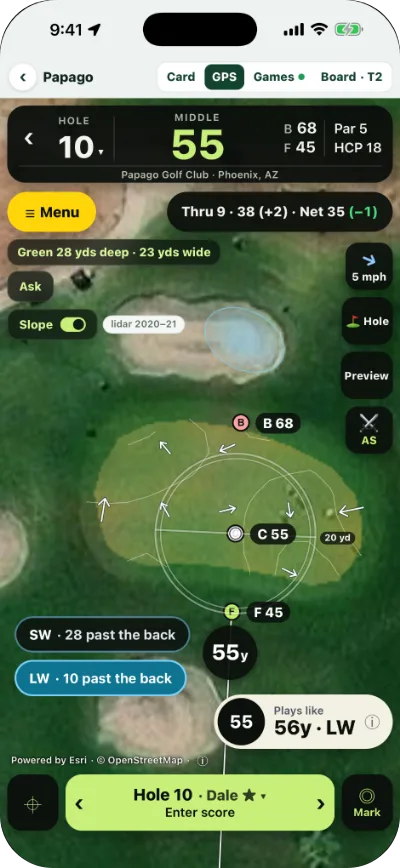
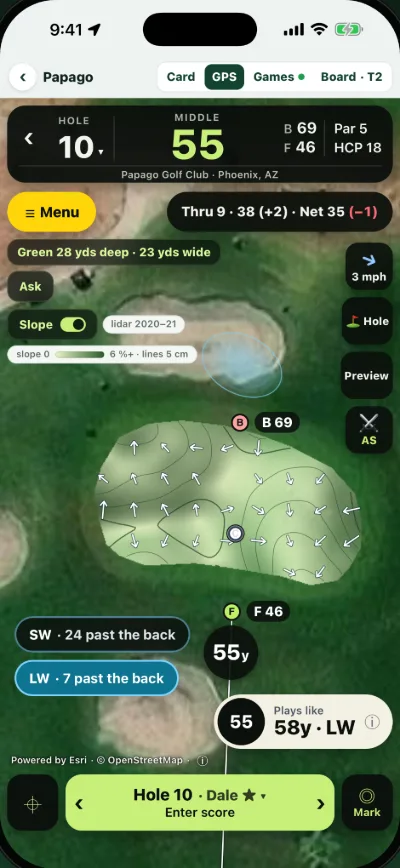
Old slope pictures replaced (Manny 2026-11-15 4:42 PM, ADVISOR-20261115-1643): green-slope, green-size and plays-like are the 2.0.8 App Store frames 07 (smooth slope, ring hidden) and 06 (aim tip), under par in red; alts and the screens manifest follow (the old entries kept under "previous")
The 2.0.7 frames drew the old blocky slope with the target ring over the arrows and Net 35 (-1) / Net 51 (-1) in green; the 2.0.7 web capture of plays-like showed Net 3 (-2) in green. The site shows under par in red only. green-size and plays-like share the 06 frame until a 2.0.8 web capture exists. Still green and not yet replaced (no 2.0.8 picture covers them): ask-caddie, group-scoring, hazards (2.0.7 web-app captures; need a 2.0.8 web capture session).
hardpan-home.html is not in sw.js's shell list: no cache bump. Guards: web_e_features 24/0, marketing_home 46/0, hardpan_home_52a 7/0, web_e_features_chrome 6/0.

diff --git a/hardpan-home.html b/hardpan-home.html
@@ -332,14 +332,14 @@
     <div class="grp" id="g-new">
         <div class="ghd"><h2>New in 2.0.7</h2><span class="gn">4 &middot; swipe &rarr;</span><span class="arrows"><button type="button" class="ga" data-dir="-1" aria-label="New in 2.0.7: earlier cards">&lsaquo;</button><button type="button" class="ga" data-dir="1" aria-label="New in 2.0.7: more cards">&rsaquo;</button></span></div>
         <p class="gln">What changed in this update.</p>
-        <ul class="row" aria-label="New in 2.0.7 features"><li class="fc" id="f-round-tabs" data-key="round-tabs"><div class="cap"><span class="eb">ROUND TABS</span><h3>Card, GPS, Games, Board.</h3><p>Four tabs on top of every round. The map opens on the whole hole.</p></div><button type="button" class="ph" data-open="round-tabs" aria-label="See Card, GPS, Games, Board full screen"><span class="s"><img src="/media/screens/round-tabs-400.webp" srcset="/media/screens/round-tabs-400.webp 400w, /media/screens/round-tabs-940.webp 940w" sizes="(max-width:700px) 200px, 206px" width="940" height="2040" loading="lazy" decoding="async" alt="The GPS map on hole 2 at Papago, opened on the whole hole with the tee and the green both on screen: 380 to the middle, and the Card, GPS, Games and Board tabs on top."></span></button></li><li class="fc" id="f-green-slope" data-key="green-slope"><div class="cap"><span class="eb">GREEN SLOPE</span><h3>Read the green.</h3><p>Shading, contours and downhill arrows on the map, with the Slope switch under Ask.</p></div><button type="button" class="ph" data-open="green-slope" aria-label="See Read the green full screen"><span class="s"><img src="/media/screens/green-slope-400.webp" srcset="/media/screens/green-slope-400.webp 400w, /media/screens/green-slope-940.webp 940w" sizes="(max-width:700px) 200px, 206px" width="940" height="2040" loading="lazy" decoding="async" alt="Papago hole 10 near the green with Slope on: shading and contours on the green, arrows that run downhill, 55 to the middle, and the Slope switch under Ask."></span></button></li><li class="fc" id="f-green-size" data-key="green-size"><div class="cap"><span class="eb">GREEN SIZE</span><h3>How big is the green?</h3><p>Deep and wide along your line of play, the same from the tee or the fairway.</p></div><button type="button" class="ph" data-open="green-size" aria-label="See How big is the green? full screen"><span class="s"><img src="/media/screens/green-size-400.webp" srcset="/media/screens/green-size-400.webp 400w, /media/screens/green-size-940.webp 940w" sizes="(max-width:700px) 200px, 206px" width="940" height="2040" loading="lazy" decoding="async" alt="Papago hole 14, 149 to the middle: the line Green 34 yds deep and 27 yds wide on the map, and Plays like 156 with an 8-iron."></span></button></li><li class="fc" id="f-team-card" data-key="team-card"><div class="cap"><span class="eb">TEAM CARD</span><h3>Your team card, in the app.</h3><p>Card, Board and GPS on one card. Scan your team’s QR right in HardPan.</p></div><button type="button" class="ph" data-open="team-card" aria-label="See Your team card, in the app full screen"><span class="s"><img src="/media/screens/team-card-400.webp" srcset="/media/screens/team-card-400.webp 400w, /media/screens/team-card-940.webp 940w" sizes="(max-width:700px) 200px, 206px" width="940" height="2040" loading="lazy" decoding="async" alt="The Desert Classic team card for Team 4 in the app: the Card, Board and GPS switch, Hole 8 · Par 5 next to play, the team score with minus and plus, and Save · Next hole."></span></button></li></ul>
+        <ul class="row" aria-label="New in 2.0.7 features"><li class="fc" id="f-round-tabs" data-key="round-tabs"><div class="cap"><span class="eb">ROUND TABS</span><h3>Card, GPS, Games, Board.</h3><p>Four tabs on top of every round. The map opens on the whole hole.</p></div><button type="button" class="ph" data-open="round-tabs" aria-label="See Card, GPS, Games, Board full screen"><span class="s"><img src="/media/screens/round-tabs-400.webp" srcset="/media/screens/round-tabs-400.webp 400w, /media/screens/round-tabs-940.webp 940w" sizes="(max-width:700px) 200px, 206px" width="940" height="2040" loading="lazy" decoding="async" alt="The GPS map on hole 2 at Papago, opened on the whole hole with the tee and the green both on screen: 380 to the middle, and the Card, GPS, Games and Board tabs on top."></span></button></li><li class="fc" id="f-green-slope" data-key="green-slope"><div class="cap"><span class="eb">GREEN SLOPE</span><h3>Read the green.</h3><p>Shading, contours and downhill arrows on the map, with the Slope switch under Ask.</p></div><button type="button" class="ph" data-open="green-slope" aria-label="See Read the green full screen"><span class="s"><img src="/media/screens/green-slope-400.webp" srcset="/media/screens/green-slope-400.webp 400w, /media/screens/green-slope-940.webp 940w" sizes="(max-width:700px) 200px, 206px" width="940" height="2040" loading="lazy" decoding="async" alt="Papago hole 10 near the green with Slope on: smooth shading, contour lines and arrows that run downhill, the target ring hidden, 55 to the middle, Thru 9 · 38 (+2) · Net 35 (−1) with the under-par number in red, and the Slope switch under Ask."></span></button></li><li class="fc" id="f-green-size" data-key="green-size"><div class="cap"><span class="eb">GREEN SIZE</span><h3>How big is the green?</h3><p>Deep and wide along your line of play, the same from the tee or the fairway.</p></div><button type="button" class="ph" data-open="green-size" aria-label="See How big is the green? full screen"><span class="s"><img src="/media/screens/green-size-400.webp" srcset="/media/screens/green-size-400.webp 400w, /media/screens/green-size-940.webp 940w" sizes="(max-width:700px) 200px, 206px" width="940" height="2040" loading="lazy" decoding="async" alt="Papago hole 14, 149 to the middle: the line Green 34 yds deep and 27 yds wide on the map, Plays like 152 with an 8-iron, and Net 51 (−1) in red."></span></button></li><li class="fc" id="f-team-card" data-key="team-card"><div class="cap"><span class="eb">TEAM CARD</span><h3>Your team card, in the app.</h3><p>Card, Board and GPS on one card. Scan your team’s QR right in HardPan.</p></div><button type="button" class="ph" data-open="team-card" aria-label="See Your team card, in the app full screen"><span class="s"><img src="/media/screens/team-card-400.webp" srcset="/media/screens/team-card-400.webp 400w, /media/screens/team-card-940.webp 940w" sizes="(max-width:700px) 200px, 206px" width="940" height="2040" loading="lazy" decoding="async" alt="The Desert Classic team card for Team 4 in the app: the Card, Board and GPS switch, Hole 8 · Par 5 next to play, the team score with minus and plus, and Save · Next hole."></span></button></li></ul>
         <div class="dots" aria-hidden="true"><i class="on"></i><i></i><i></i><i></i></div>
         <ul class="new207" aria-label="Also new in 2.0.7"><li><b>Why?</b> on the suggested fair game: the strokes, the handicaps and the game it is built on.</li><li><b>Undo</b> on the scorecard, right after each score.</li><li>A <b>Season board</b> for your weekly group, on Home.</li><li><b>Play in this event</b> on the card of an event you run.</li><li>The Home card names the course and the next hole.</li></ul>
     </div>
     <div class="grp" id="g-play">
         <div class="ghd"><h2>Play</h2><span class="gn">6 &middot; swipe &rarr;</span><span class="arrows"><button type="button" class="ga" data-dir="-1" aria-label="Play: earlier cards">&lsaquo;</button><button type="button" class="ga" data-dir="1" aria-label="Play: more cards">&rsaquo;</button></span></div>
         <p class="gln">GPS that knows the course, and your clubs.</p>
-        <ul class="row" aria-label="Play features"><li class="fc" id="f-gps" data-key="gps"><div class="cap"><span class="eb">GPS</span> <span class="clipchip">&#9654; clip 0:03</span><h3>Every yard. Every hole.</h3><p>Front, middle and back of every green on a real satellite map.</p></div><button type="button" class="ph" data-open="gps" aria-label="See Every yard. Every hole full screen"><span class="s clipslot"><img src="/media/screens/gps-400.webp" srcset="/media/screens/gps-400.webp 400w, /media/screens/gps-886.webp 886w" sizes="(max-width:700px) 200px, 206px" width="886" height="1920" loading="lazy" decoding="async" alt="The HardPan GPS map on hole 1 at Talking Stick, the whole hole from the tee: 397 yards to the middle of the green with the back and front numbers, and Card, GPS, Games and Board tabs on top."><video muted playsinline preload="none" data-src="/media/clips/gps.mp4" aria-hidden="true"></video><span class="cb">&#9654; 0:03</span></span></button></li><li class="fc" id="f-plays-like" data-key="plays-like"><div class="cap"><span class="eb">PLAYS LIKE</span><h3>Hit the number it plays.</h3><p>Wind and elevation in one yardage, plus an aim tip from your own misses.</p></div><button type="button" class="ph" data-open="plays-like" aria-label="See Hit the number it plays full screen"><span class="s"><img src="/media/screens/plays-like-400.webp" srcset="/media/screens/plays-like-400.webp 400w, /media/screens/plays-like-940.webp 940w" sizes="(max-width:700px) 200px, 206px" width="940" height="2040" loading="lazy" decoding="async" alt="The GPS map on hole 2 at Dobson Ranch: 140 to the middle, Plays like 140 with a 9-iron and the aim tip 8 yards left, the green’s size line, and the Slope switch under Ask."></span></button></li><li class="fc" id="f-hazards" data-key="hazards"><div class="cap"><span class="eb">HAZARDS</span><h3>Know what you can carry.</h3><p>Reach and carry for every bunker, and where to lay up, from where you stand.</p></div><button type="button" class="ph" data-open="hazards" aria-label="See Know what you can carry full screen"><span class="s"><img src="/media/screens/hazards-400.webp" srcset="/media/screens/hazards-400.webp 400w, /media/screens/hazards-1170.webp 1170w" sizes="(max-width:700px) 200px, 206px" width="1170" height="2532" loading="lazy" decoding="async" alt="The Hazards sheet on hole 1 at Talking Stick, over the GPS map: reach and carry yards for the bunker left and the water right, and lay-up distances with a club for each."></span></button></li><li class="fc" id="f-best-miss" data-key="best-miss"><div class="cap"><span class="eb">BEST MISS</span><h3>Miss on the right side.</h3><p>Green slope from lidar, and the safe side to miss.</p></div><button type="button" class="ph" data-open="best-miss" aria-label="See Miss on the right side full screen"><span class="s"><img src="/media/screens/best-miss-400.webp" srcset="/media/screens/best-miss-400.webp 400w, /media/screens/best-miss-940.webp 940w" sizes="(max-width:700px) 200px, 206px" width="940" height="2040" loading="lazy" decoding="async" alt="The GPS map on Papago’s first green with Slope on: the green’s slope arrows and shading, 41 to the middle, carry bunker 43, and Best miss: right."></span></button></li><li class="fc" id="f-offline" data-key="offline"><div class="cap"><span class="eb">OFFLINE MAPS</span><h3>No signal? Still every yard.</h3><p>Save a course before you go. The map works with zero bars.</p></div><button type="button" class="ph" data-open="offline" aria-label="See No signal? Still every yard full screen"><span class="s"><img src="/media/screens/offline-400.webp" srcset="/media/screens/offline-400.webp 400w, /media/screens/offline-780.webp 780w" sizes="(max-width:700px) 200px, 206px" width="780" height="1704" loading="lazy" decoding="async" alt="The course picker with a Download for offline button for Dobson Ranch Golf Course."></span></button></li><li class="fc" id="f-bag" data-key="my-bag"><div class="cap"><span class="eb">MY BAG</span><h3>Your real carries.</h3><p>Type your yardages once. HardPan picks the club from them.</p></div><button type="button" class="ph" data-open="my-bag" aria-label="See Your real carries full screen"><span class="s"><img src="/media/screens/my-bag-400.webp" srcset="/media/screens/my-bag-400.webp 400w, /media/screens/my-bag-1170.webp 1170w" sizes="(max-width:700px) 200px, 206px" width="1170" height="2532" loading="lazy" decoding="async" alt="My bag for Sam: a carry yardage for each club, Driver 245, 3-wood 225, 5-wood 210, with a switch to keep each club in the bag and Type my carries."></span></button></li></ul>
+        <ul class="row" aria-label="Play features"><li class="fc" id="f-gps" data-key="gps"><div class="cap"><span class="eb">GPS</span> <span class="clipchip">&#9654; clip 0:03</span><h3>Every yard. Every hole.</h3><p>Front, middle and back of every green on a real satellite map.</p></div><button type="button" class="ph" data-open="gps" aria-label="See Every yard. Every hole full screen"><span class="s clipslot"><img src="/media/screens/gps-400.webp" srcset="/media/screens/gps-400.webp 400w, /media/screens/gps-886.webp 886w" sizes="(max-width:700px) 200px, 206px" width="886" height="1920" loading="lazy" decoding="async" alt="The HardPan GPS map on hole 1 at Talking Stick, the whole hole from the tee: 397 yards to the middle of the green with the back and front numbers, and Card, GPS, Games and Board tabs on top."><video muted playsinline preload="none" data-src="/media/clips/gps.mp4" aria-hidden="true"></video><span class="cb">&#9654; 0:03</span></span></button></li><li class="fc" id="f-plays-like" data-key="plays-like"><div class="cap"><span class="eb">PLAYS LIKE</span><h3>Hit the number it plays.</h3><p>Wind and elevation in one yardage, plus an aim tip from your own misses.</p></div><button type="button" class="ph" data-open="plays-like" aria-label="See Hit the number it plays full screen"><span class="s"><img src="/media/screens/plays-like-400.webp" srcset="/media/screens/plays-like-400.webp 400w, /media/screens/plays-like-940.webp 940w" sizes="(max-width:700px) 200px, 206px" width="940" height="2040" loading="lazy" decoding="async" alt="The GPS map on hole 14 at Papago: 149 to the middle, Plays like 152 with an 8-iron and the aim tip 8 yards left, the club chips, the green’s size line, the Slope switch under Ask, and Net 51 (−1) in red."></span></button></li><li class="fc" id="f-hazards" data-key="hazards"><div class="cap"><span class="eb">HAZARDS</span><h3>Know what you can carry.</h3><p>Reach and carry for every bunker, and where to lay up, from where you stand.</p></div><button type="button" class="ph" data-open="hazards" aria-label="See Know what you can carry full screen"><span class="s"><img src="/media/screens/hazards-400.webp" srcset="/media/screens/hazards-400.webp 400w, /media/screens/hazards-1170.webp 1170w" sizes="(max-width:700px) 200px, 206px" width="1170" height="2532" loading="lazy" decoding="async" alt="The Hazards sheet on hole 1 at Talking Stick, over the GPS map: reach and carry yards for the bunker left and the water right, and lay-up distances with a club for each."></span></button></li><li class="fc" id="f-best-miss" data-key="best-miss"><div class="cap"><span class="eb">BEST MISS</span><h3>Miss on the right side.</h3><p>Green slope from lidar, and the safe side to miss.</p></div><button type="button" class="ph" data-open="best-miss" aria-label="See Miss on the right side full screen"><span class="s"><img src="/media/screens/best-miss-400.webp" srcset="/media/screens/best-miss-400.webp 400w, /media/screens/best-miss-940.webp 940w" sizes="(max-width:700px) 200px, 206px" width="940" height="2040" loading="lazy" decoding="async" alt="The GPS map on Papago’s first green with Slope on: the green’s slope arrows and shading, 41 to the middle, carry bunker 43, and Best miss: right."></span></button></li><li class="fc" id="f-offline" data-key="offline"><div class="cap"><span class="eb">OFFLINE MAPS</span><h3>No signal? Still every yard.</h3><p>Save a course before you go. The map works with zero bars.</p></div><button type="button" class="ph" data-open="offline" aria-label="See No signal? Still every yard full screen"><span class="s"><img src="/media/screens/offline-400.webp" srcset="/media/screens/offline-400.webp 400w, /media/screens/offline-780.webp 780w" sizes="(max-width:700px) 200px, 206px" width="780" height="1704" loading="lazy" decoding="async" alt="The course picker with a Download for offline button for Dobson Ranch Golf Course."></span></button></li><li class="fc" id="f-bag" data-key="my-bag"><div class="cap"><span class="eb">MY BAG</span><h3>Your real carries.</h3><p>Type your yardages once. HardPan picks the club from them.</p></div><button type="button" class="ph" data-open="my-bag" aria-label="See Your real carries full screen"><span class="s"><img src="/media/screens/my-bag-400.webp" srcset="/media/screens/my-bag-400.webp 400w, /media/screens/my-bag-1170.webp 1170w" sizes="(max-width:700px) 200px, 206px" width="1170" height="2532" loading="lazy" decoding="async" alt="My bag for Sam: a carry yardage for each club, Driver 245, 3-wood 225, 5-wood 210, with a switch to keep each club in the bag and Type my carries."></span></button></li></ul>
         <div class="dots" aria-hidden="true"><i class="on"></i><i></i><i></i><i></i><i></i><i></i></div>
     </div>
     <div class="wrap trywrap"><section class="try" id="try-gps" aria-labelledby="try-gps-h">
